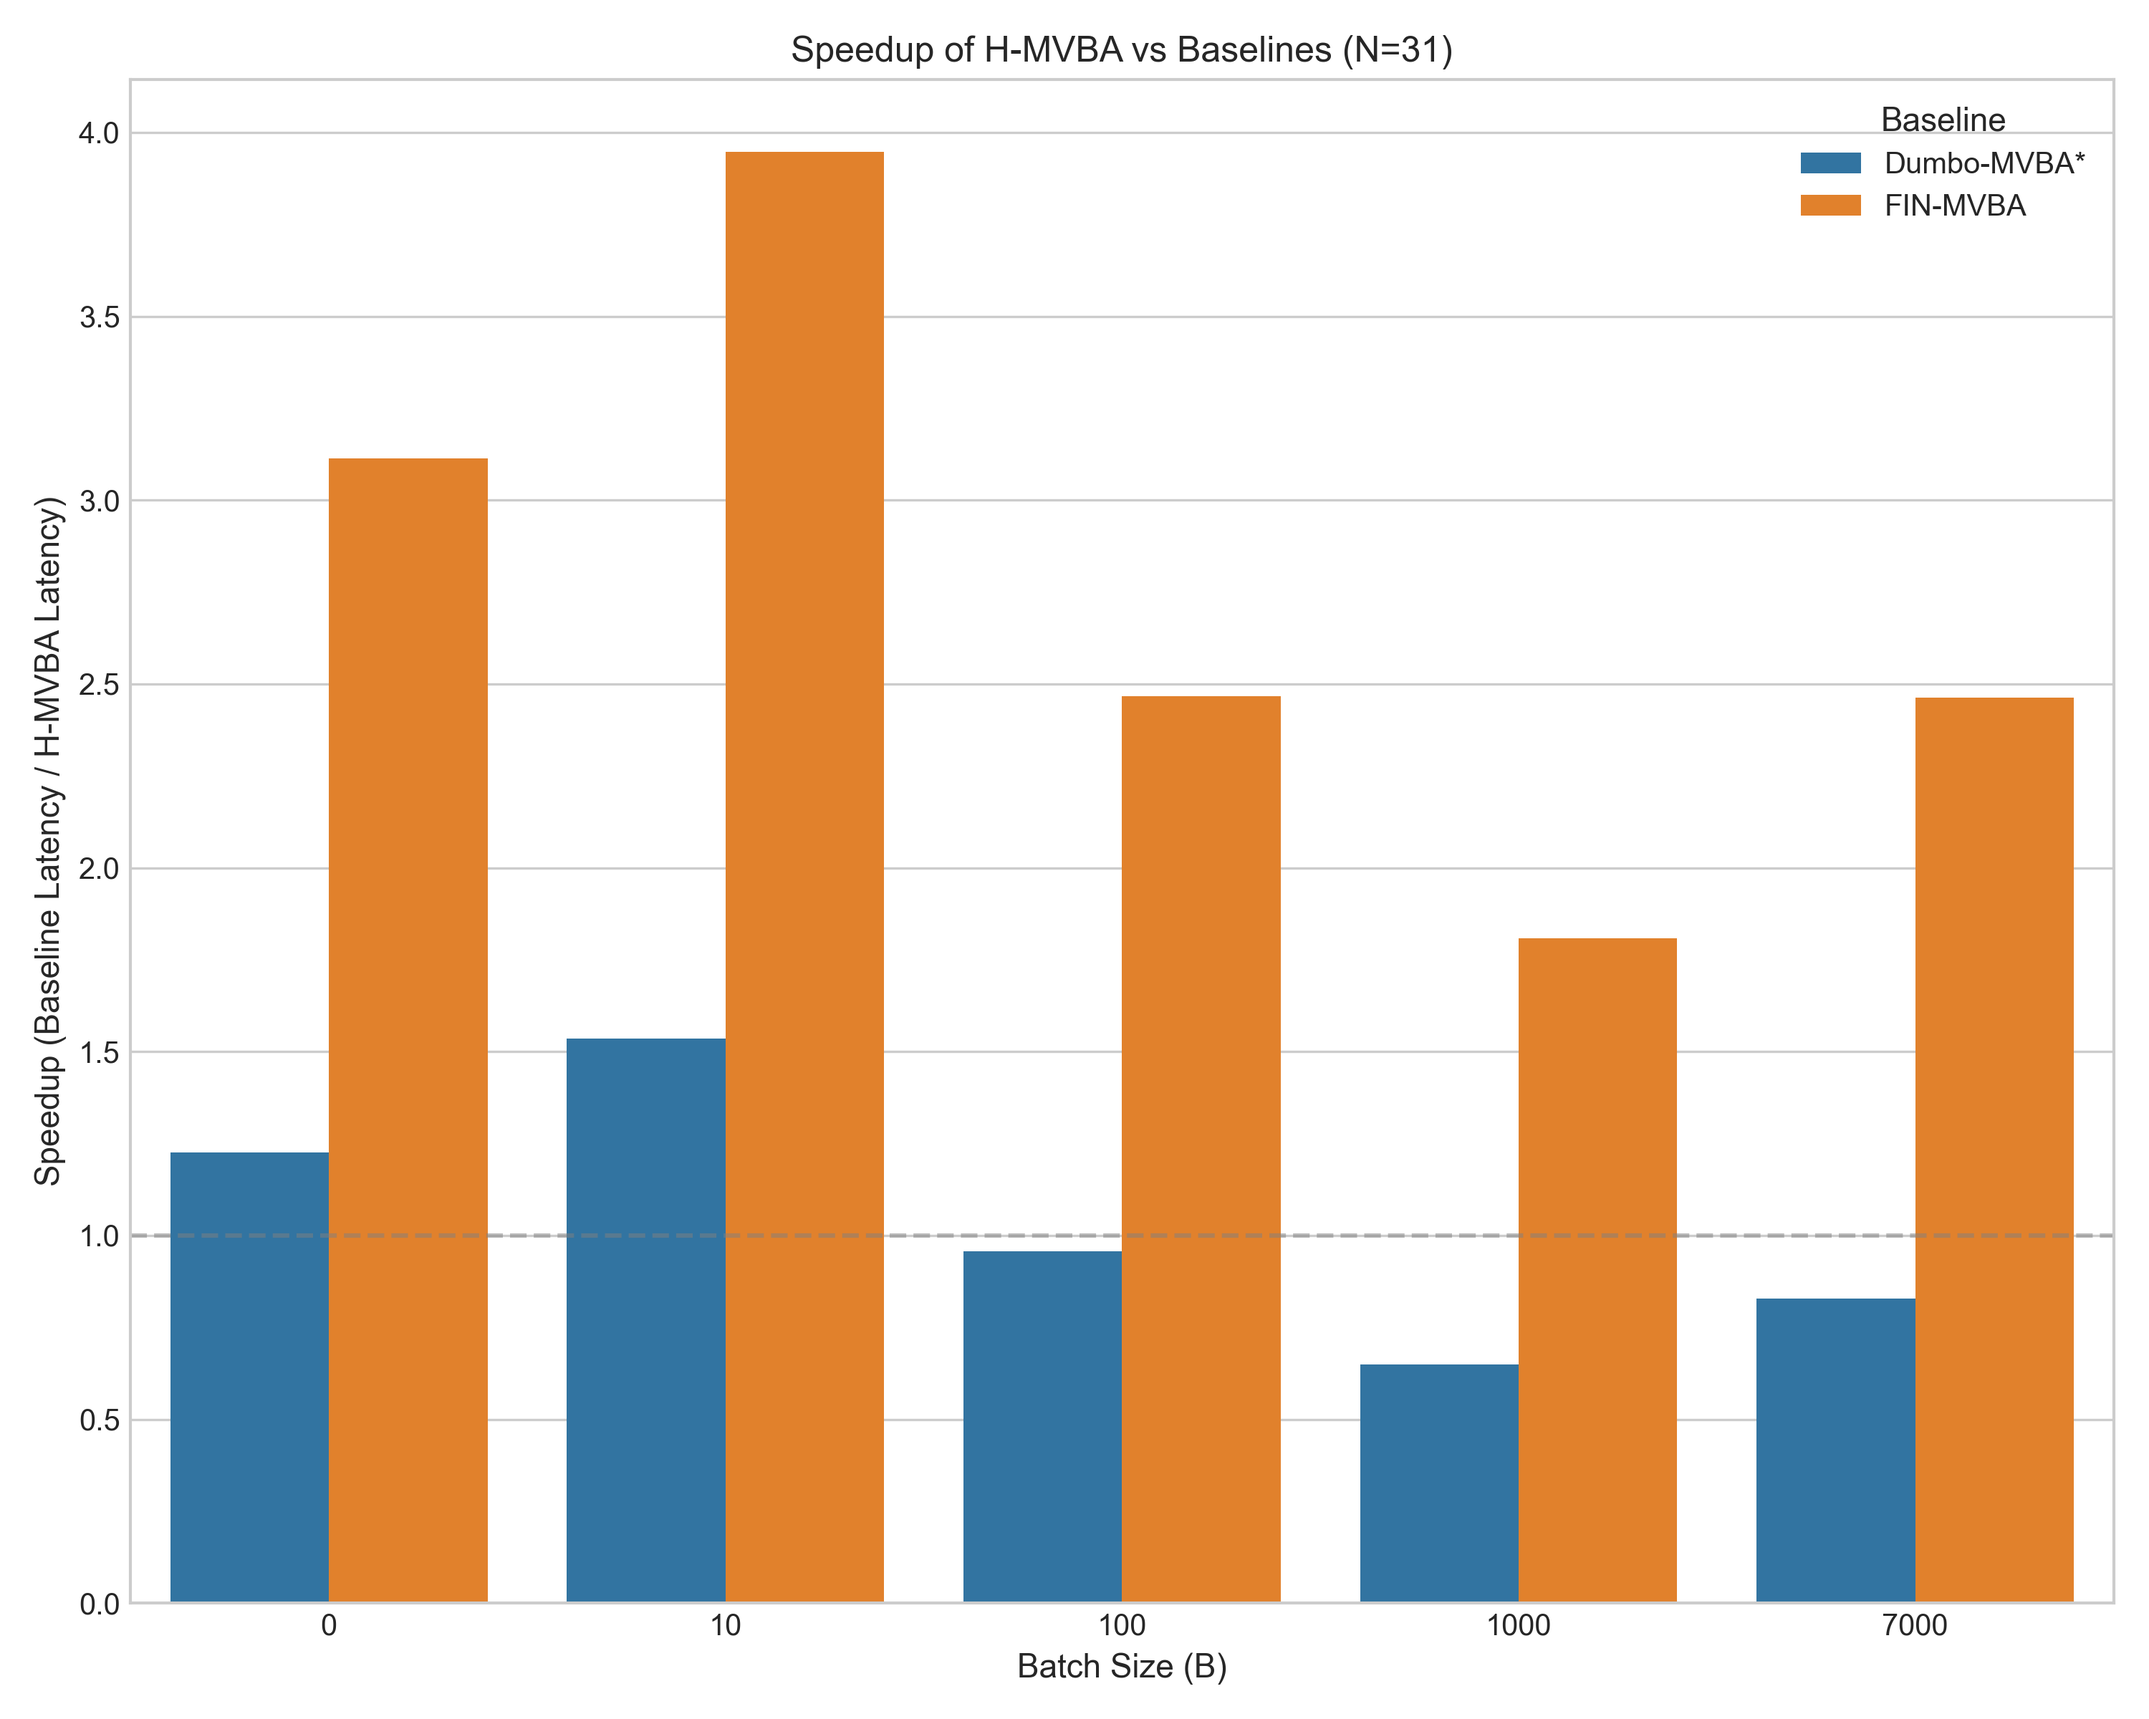
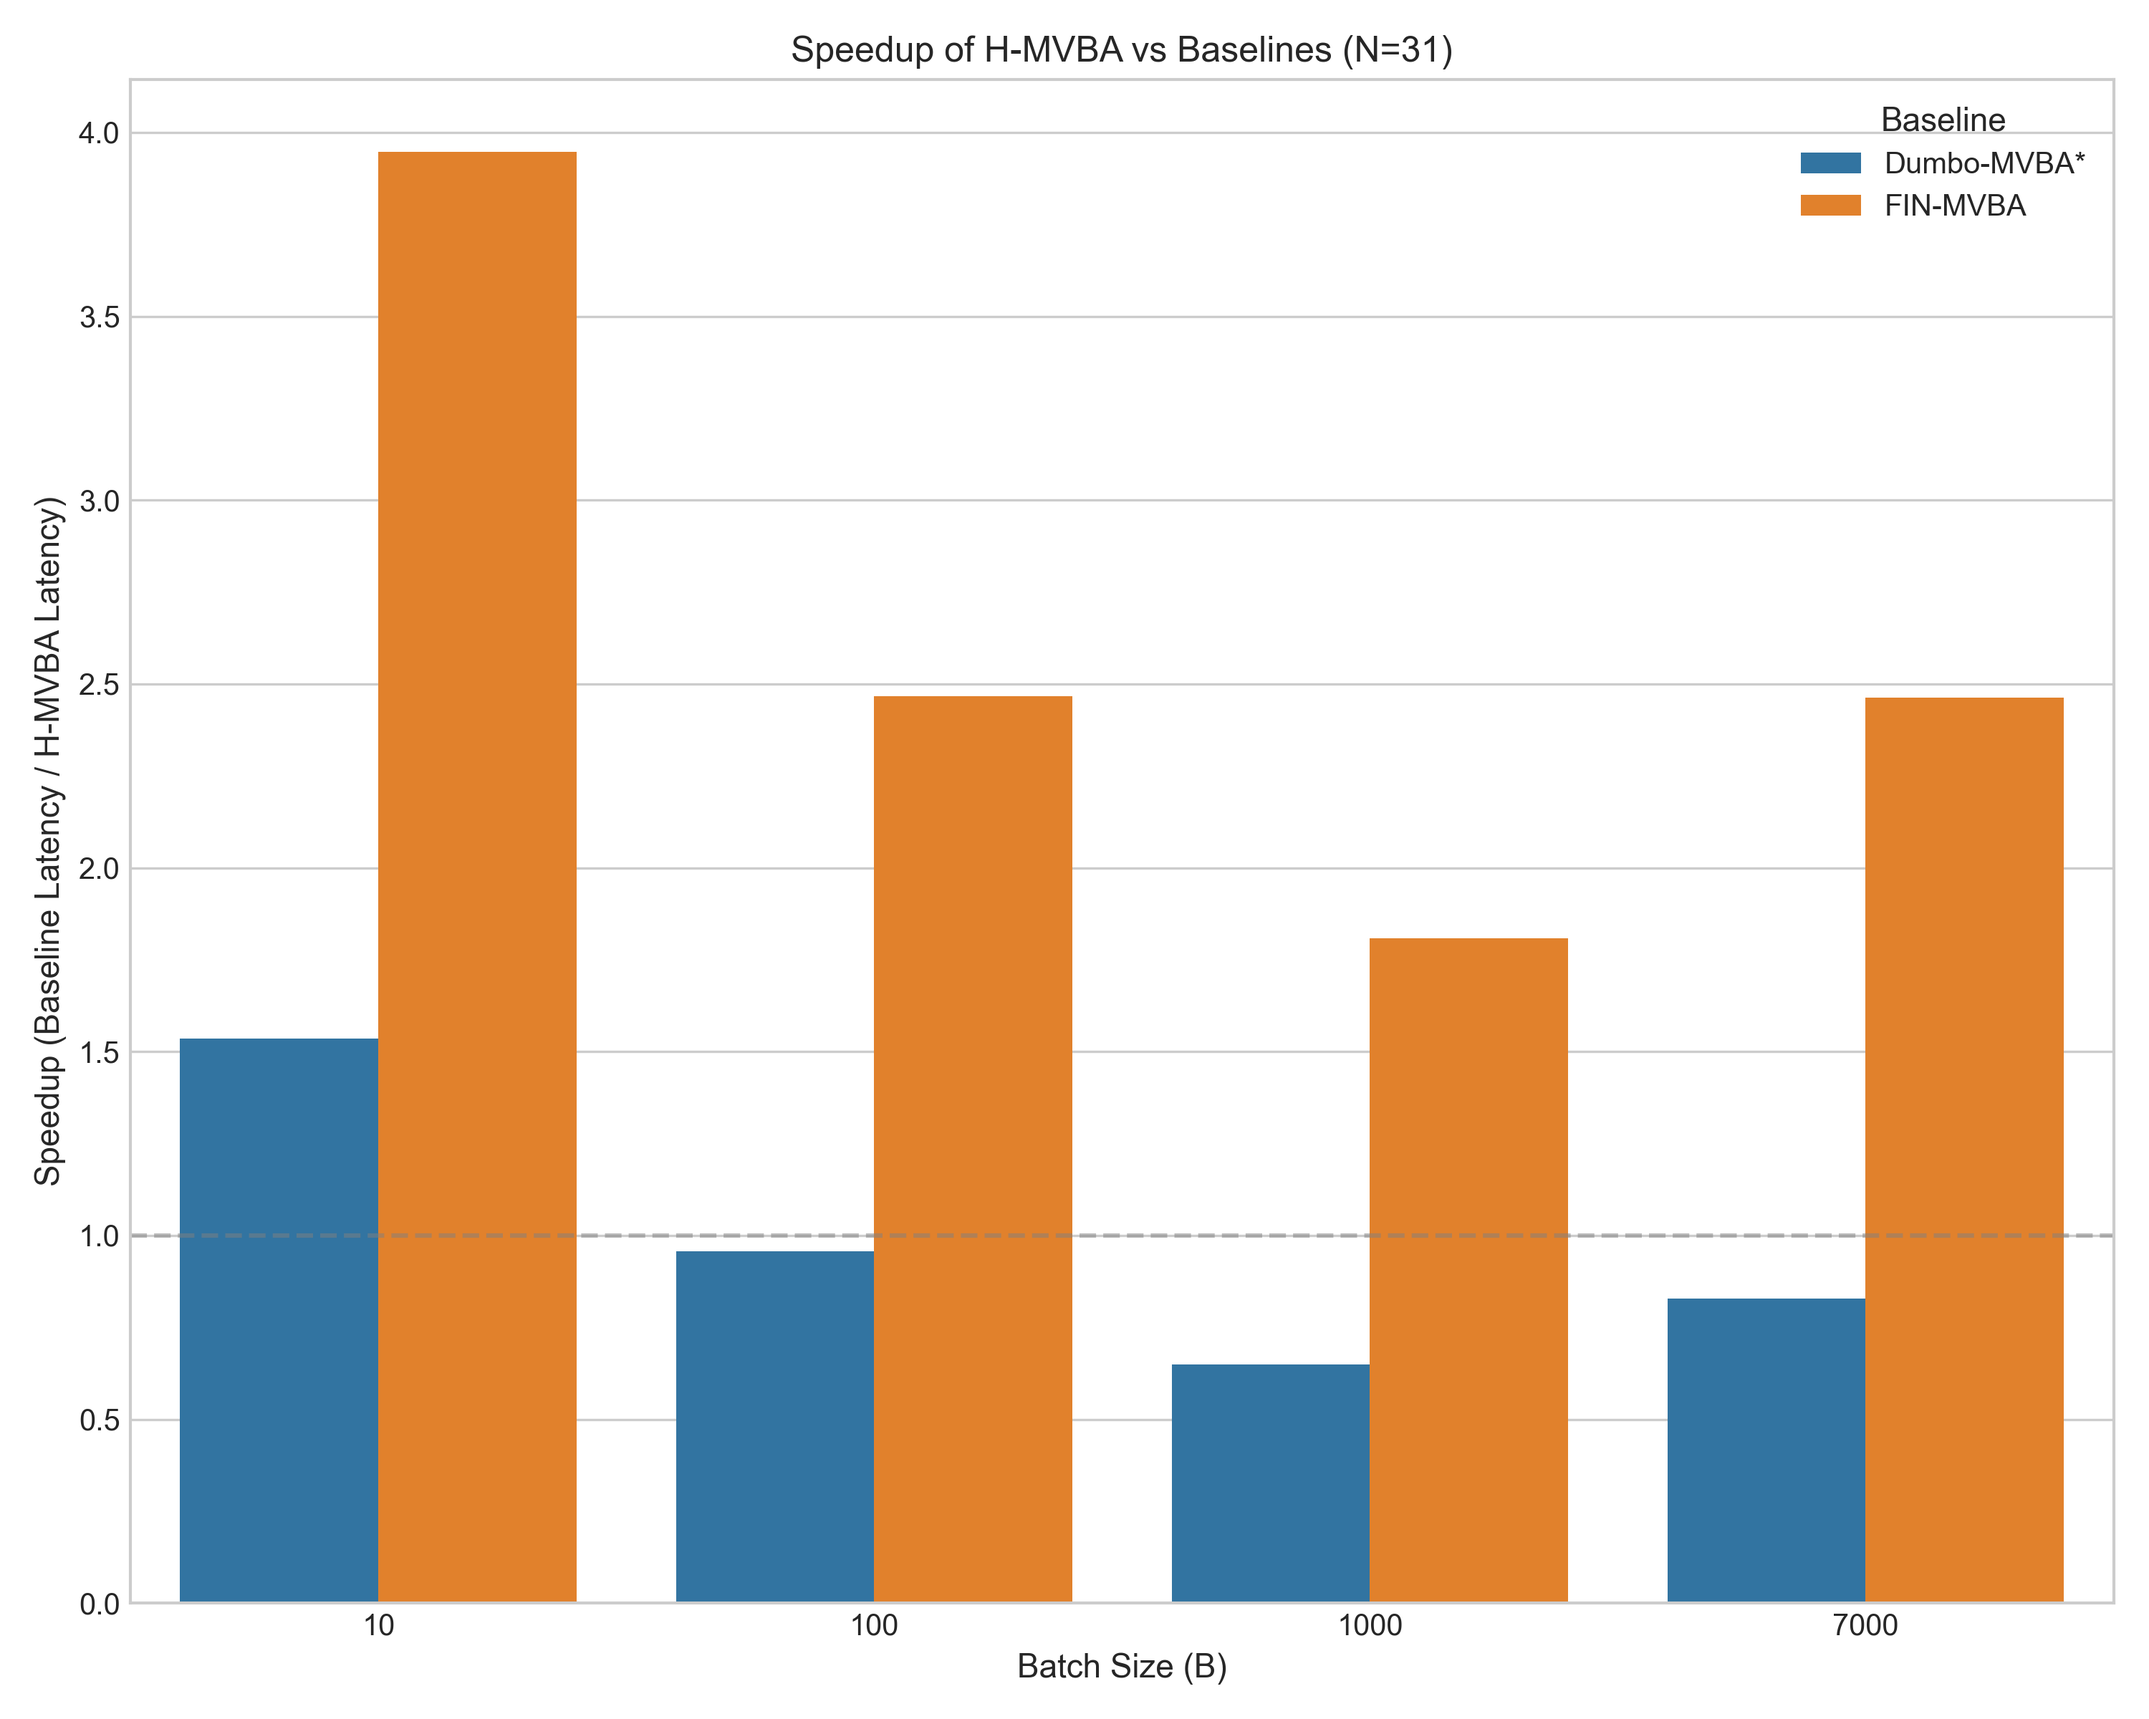
update figure

diff --git a/generate_plots.py b/generate_plots.py
@@ -1,6 +1,10 @@
 #!/usr/bin/env python3
 """
-Generate plots similar to paper Figures 2-4 from CSV data.
+Generate three types of plots:
+1. Number of Nodes vs Latency (s) for two B values (100, 1000)
+2. Batch size (txs) vs Latency (s) for two network size N values (16, 31)
+3. Batch size vs Throughput (txs/s) for two network size N values (16, 31)
+
 Requires: matplotlib, pandas (install via pip install matplotlib pandas)
 """
 
@@ -58,135 +62,150 @@ def load_data():
     
     return latency_df, throughput_df
 
+def load_aggregated_data():
+    """Load aggregated results CSV for throughput vs B data."""
+    aggregated_csv = 'aggregated_results.csv'
+    if not os.path.exists(aggregated_csv):
+        print(f"Warning: {aggregated_csv} not found. Some plots may be limited.")
+        return None
+    
+    agg_df = pd.read_csv(aggregated_csv)
+    # Filter out rows with missing tps_mean or latency_mean
+    agg_df = agg_df.dropna(subset=['tps_mean', 'latency_mean'])
+    # Filter out B=0 (zero batch size)
+    agg_df = agg_df[agg_df['B'] > 0]
+    return agg_df
+
 def plot_figure2(latency_df, output_dir='plots'):
-    """Figure 2: Latency vs. input size for N=31."""
+    """Figure 2: Latency vs. Batch Size - separate figures for N=16 and N=31."""
     os.makedirs(output_dir, exist_ok=True)
     
-    n_val = 31
-    df_n31 = latency_df[latency_df['N'] == n_val].copy()
+    n_values = [16, 31]
     
-    if df_n31.empty:
-        print(f"Warning: No data for N={n_val} in latency CSV")
+    for n_val in n_values:
+        plt.figure()
+        
+        for protocol in latency_df['protocol'].unique():
+            df_n = latency_df[latency_df['N'] == n_val].copy()
+            proto_df = df_n[df_n['protocol'] == protocol].sort_values('B')
+            # Filter out B=0 rows
+            proto_df = proto_df[proto_df['B'] > 0]
+            if len(proto_df) < 2:
+                continue
+            
+            plt.errorbar(
+                x=proto_df['B'],
+                y=proto_df['latency_mean'],
+                yerr=proto_df['latency_std'],
+                label=PROTOCOL_LABELS.get(protocol, protocol),
+                color=PROTOCOL_COLORS.get(protocol, 'gray'),
+                marker='o',
+                capsize=4,
+                linewidth=1.5,
+            )
+        
+        plt.xlabel('Batch Size (transactions)')
+        plt.ylabel('Latency (seconds)')
+        plt.title(f'Latency vs. Batch Size (N={n_val})')
+        plt.legend()
+        plt.grid(True, alpha=0.3)
+        
+        # Use log scale for x-axis (batch size) as values span orders of magnitude
+        plt.xscale('log')
+        # Set custom x-ticks to match actual B values
+        plt.xticks([10, 100, 1000, 7000], ['10', '100', '1000', '7000'])
+        
+        plt.tight_layout()
+        output_path = os.path.join(output_dir, f'figure2_latency_vs_batch_size_N{n_val}.png')
+        plt.savefig(output_path)
+        print(f"Saved {output_path}")
+        plt.close()
+
+def plot_figure3(agg_df, output_dir='plots'):
+    """Figure 3: Throughput vs. Batch Size - separate figures for N=16 and N=31."""
+    os.makedirs(output_dir, exist_ok=True)
+    
+    if agg_df is None or agg_df.empty:
+        print("Warning: No aggregated data available for throughput vs batch size plot.")
         return
     
-    plt.figure()
+    n_values = [16, 31]
     
-    for protocol in df_n31['protocol'].unique():
-        proto_df = df_n31[df_n31['protocol'] == protocol].sort_values('B')
-        if len(proto_df) < 2:
-            continue
+    for n_val in n_values:
+        plt.figure()
         
-        plt.errorbar(
-            x=proto_df['input_size_kb'],
-            y=proto_df['latency_mean'],
-            yerr=proto_df['latency_std'],
-            label=PROTOCOL_LABELS.get(protocol, protocol),
-            color=PROTOCOL_COLORS.get(protocol, 'gray'),
-            marker='o',
-            capsize=4,
-            linewidth=1.5,
-        )
-    
-    plt.xlabel('Input Size (KB)')
-    plt.ylabel('Latency (seconds)')
-    plt.title(f'Latency vs. Input Size (N={n_val})')
-    plt.legend()
-    plt.grid(True, alpha=0.3)
-    
-    # Set x-axis to log scale for input size (paper uses linear? Actually B values are 0,10,100,1000,7000)
-    # Use linear scale but with custom ticks
-    plt.xticks(sorted(df_n31['input_size_kb'].unique()))
-    
-    plt.tight_layout()
-    output_path = os.path.join(output_dir, f'figure2_latency_vs_input_N{n_val}.png')
-    plt.savefig(output_path)
-    print(f"Saved {output_path}")
-    plt.close()
-
-def plot_figure3(throughput_df, output_dir='plots'):
-    """Figure 3: Throughput vs. scale for B=1000."""
-    os.makedirs(output_dir, exist_ok=True)
-    
-    # We need throughput data for B=1000, but our throughput CSV is aggregated by N
-    # Actually throughput CSV contains TPS for each protocol at each N (aggregated across B?)
-    # Need to check: throughput CSV appears to be for B=1000? Let's assume it's for B=1000.
-    # We'll plot TPS vs N for each protocol.
-    
-    plt.figure()
-    
-    for protocol in throughput_df['protocol'].unique():
-        proto_df = throughput_df[throughput_df['protocol'] == protocol].sort_values('N')
-        if len(proto_df) < 2:
-            continue
+        for protocol in agg_df['protocol'].unique():
+            df_n = agg_df[agg_df['N'] == n_val].copy()
+            proto_df = df_n[df_n['protocol'] == protocol].sort_values('B')
+            if len(proto_df) < 2:
+                continue
+            
+            plt.errorbar(
+                x=proto_df['B'],
+                y=proto_df['tps_mean'],
+                yerr=proto_df['tps_std'],
+                label=PROTOCOL_LABELS.get(protocol, protocol),
+                color=PROTOCOL_COLORS.get(protocol, 'gray'),
+                marker='s',
+                capsize=4,
+                linewidth=1.5,
+            )
         
-        plt.errorbar(
-            x=proto_df['N'],
-            y=proto_df['tps_mean'],
-            yerr=proto_df['tps_std'],
-            label=PROTOCOL_LABELS.get(protocol, protocol),
-            color=PROTOCOL_COLORS.get(protocol, 'gray'),
-            marker='s',
-            capsize=4,
-            linewidth=1.5,
-        )
-    
-    plt.xlabel('Number of Parties (N)')
-    plt.ylabel('Throughput (TPS)')
-    plt.title('Throughput vs. Scale (B=1000)')
-    plt.legend()
-    plt.grid(True, alpha=0.3)
-    
-    # Set x-axis to log scale for N (paper uses linear)
-    plt.xticks(sorted(throughput_df['N'].unique()))
-    
-    plt.tight_layout()
-    output_path = os.path.join(output_dir, 'figure3_throughput_vs_scale.png')
-    plt.savefig(output_path)
-    print(f"Saved {output_path}")
-    plt.close()
+        plt.xlabel('Batch Size (transactions)')
+        plt.ylabel('Throughput (transactions per second)')
+        plt.title(f'Throughput vs. Batch Size (N={n_val})')
+        plt.legend()
+        plt.grid(True, alpha=0.3)
+        
+        # Use log scale for x-axis (batch size)
+        plt.xscale('log')
+        plt.xticks([10, 100, 1000, 7000], ['10', '100', '1000', '7000'])
+        
+        plt.tight_layout()
+        output_path = os.path.join(output_dir, f'figure3_throughput_vs_batch_size_N{n_val}.png')
+        plt.savefig(output_path)
+        print(f"Saved {output_path}")
+        plt.close()
 
 def plot_figure4(latency_df, output_dir='plots'):
-    """Figure 4: Latency vs. scale for B=1000."""
+    """Figure 4: Latency vs. Number of Nodes - separate figures for B=100 and B=1000."""
     os.makedirs(output_dir, exist_ok=True)
     
-    b_val = 1000
-    df_b1000 = latency_df[latency_df['B'] == b_val].copy()
+    b_values = [100, 1000]
     
-    if df_b1000.empty:
-        print(f"Warning: No data for B={b_val} in latency CSV")
-        return
-    
-    plt.figure()
-    
-    for protocol in df_b1000['protocol'].unique():
-        proto_df = df_b1000[df_b1000['protocol'] == protocol].sort_values('N')
-        if len(proto_df) < 2:
-            continue
+    for b_val in b_values:
+        plt.figure()
         
-        plt.errorbar(
-            x=proto_df['N'],
-            y=proto_df['latency_mean'],
-            yerr=proto_df['latency_std'],
-            label=PROTOCOL_LABELS.get(protocol, protocol),
-            color=PROTOCOL_COLORS.get(protocol, 'gray'),
-            marker='^',
-            capsize=4,
-            linewidth=1.5,
-        )
-    
-    plt.xlabel('Number of Parties (N)')
-    plt.ylabel('Latency (seconds)')
-    plt.title(f'Latency vs. Scale (B={b_val})')
-    plt.legend()
-    plt.grid(True, alpha=0.3)
-    
-    plt.xticks(sorted(df_b1000['N'].unique()))
-    
-    plt.tight_layout()
-    output_path = os.path.join(output_dir, f'figure4_latency_vs_scale_B{b_val}.png')
-    plt.savefig(output_path)
-    print(f"Saved {output_path}")
-    plt.close()
+        for protocol in latency_df['protocol'].unique():
+            df_b = latency_df[latency_df['B'] == b_val].copy()
+            proto_df = df_b[df_b['protocol'] == protocol].sort_values('N')
+            if len(proto_df) < 2:
+                continue
+            
+            plt.errorbar(
+                x=proto_df['N'],
+                y=proto_df['latency_mean'],
+                yerr=proto_df['latency_std'],
+                label=PROTOCOL_LABELS.get(protocol, protocol),
+                color=PROTOCOL_COLORS.get(protocol, 'gray'),
+                marker='^',
+                capsize=4,
+                linewidth=1.5,
+            )
+        
+        plt.xlabel('Number of Nodes (N)')
+        plt.ylabel('Latency (seconds)')
+        plt.title(f'Latency vs. Number of Nodes (B={b_val})')
+        plt.legend()
+        plt.grid(True, alpha=0.3)
+        
+        plt.xticks(sorted(latency_df['N'].unique()))
+        
+        plt.tight_layout()
+        output_path = os.path.join(output_dir, f'figure4_latency_vs_nodes_B{b_val}.png')
+        plt.savefig(output_path)
+        print(f"Saved {output_path}")
+        plt.close()
 
 def plot_additional_comparisons(latency_df, throughput_df, output_dir='plots'):
     """Additional plots: Speedup comparisons, etc."""
@@ -197,9 +216,11 @@ def plot_additional_comparisons(latency_df, throughput_df, output_dir='plots'):
     n_val = 31
     df_n31 = latency_df[latency_df['N'] == n_val].copy()
     
-    # Group by B and protocol
+    # Group by B and protocol, exclude B=0
     speedups = []
     for b_val in sorted(df_n31['B'].unique()):
+        if b_val == 0:
+            continue
         b_df = df_n31[df_n31['B'] == b_val]
         if len(b_df) < 3:
             continue
@@ -239,14 +260,15 @@ def plot_additional_comparisons(latency_df, throughput_df, output_dir='plots'):
 def main():
     print("Loading data...")
     latency_df, throughput_df = load_data()
+    agg_df = load_aggregated_data()
     
-    print("Generating Figure 2 (Latency vs Input Size for N=31)...")
+    print("Generating Figure 2 (Latency vs Batch Size for N=16 and N=31)...")
     plot_figure2(latency_df)
     
-    print("Generating Figure 3 (Throughput vs Scale for B=1000)...")
-    plot_figure3(throughput_df)
+    print("Generating Figure 3 (Throughput vs Batch Size for N=16 and N=31)...")
+    plot_figure3(agg_df)
     
-    print("Generating Figure 4 (Latency vs Scale for B=1000)...")
+    print("Generating Figure 4 (Latency vs Number of Nodes for B=100 and B=1000)...")
     plot_figure4(latency_df)
     
     print("Generating additional comparison plots...")
